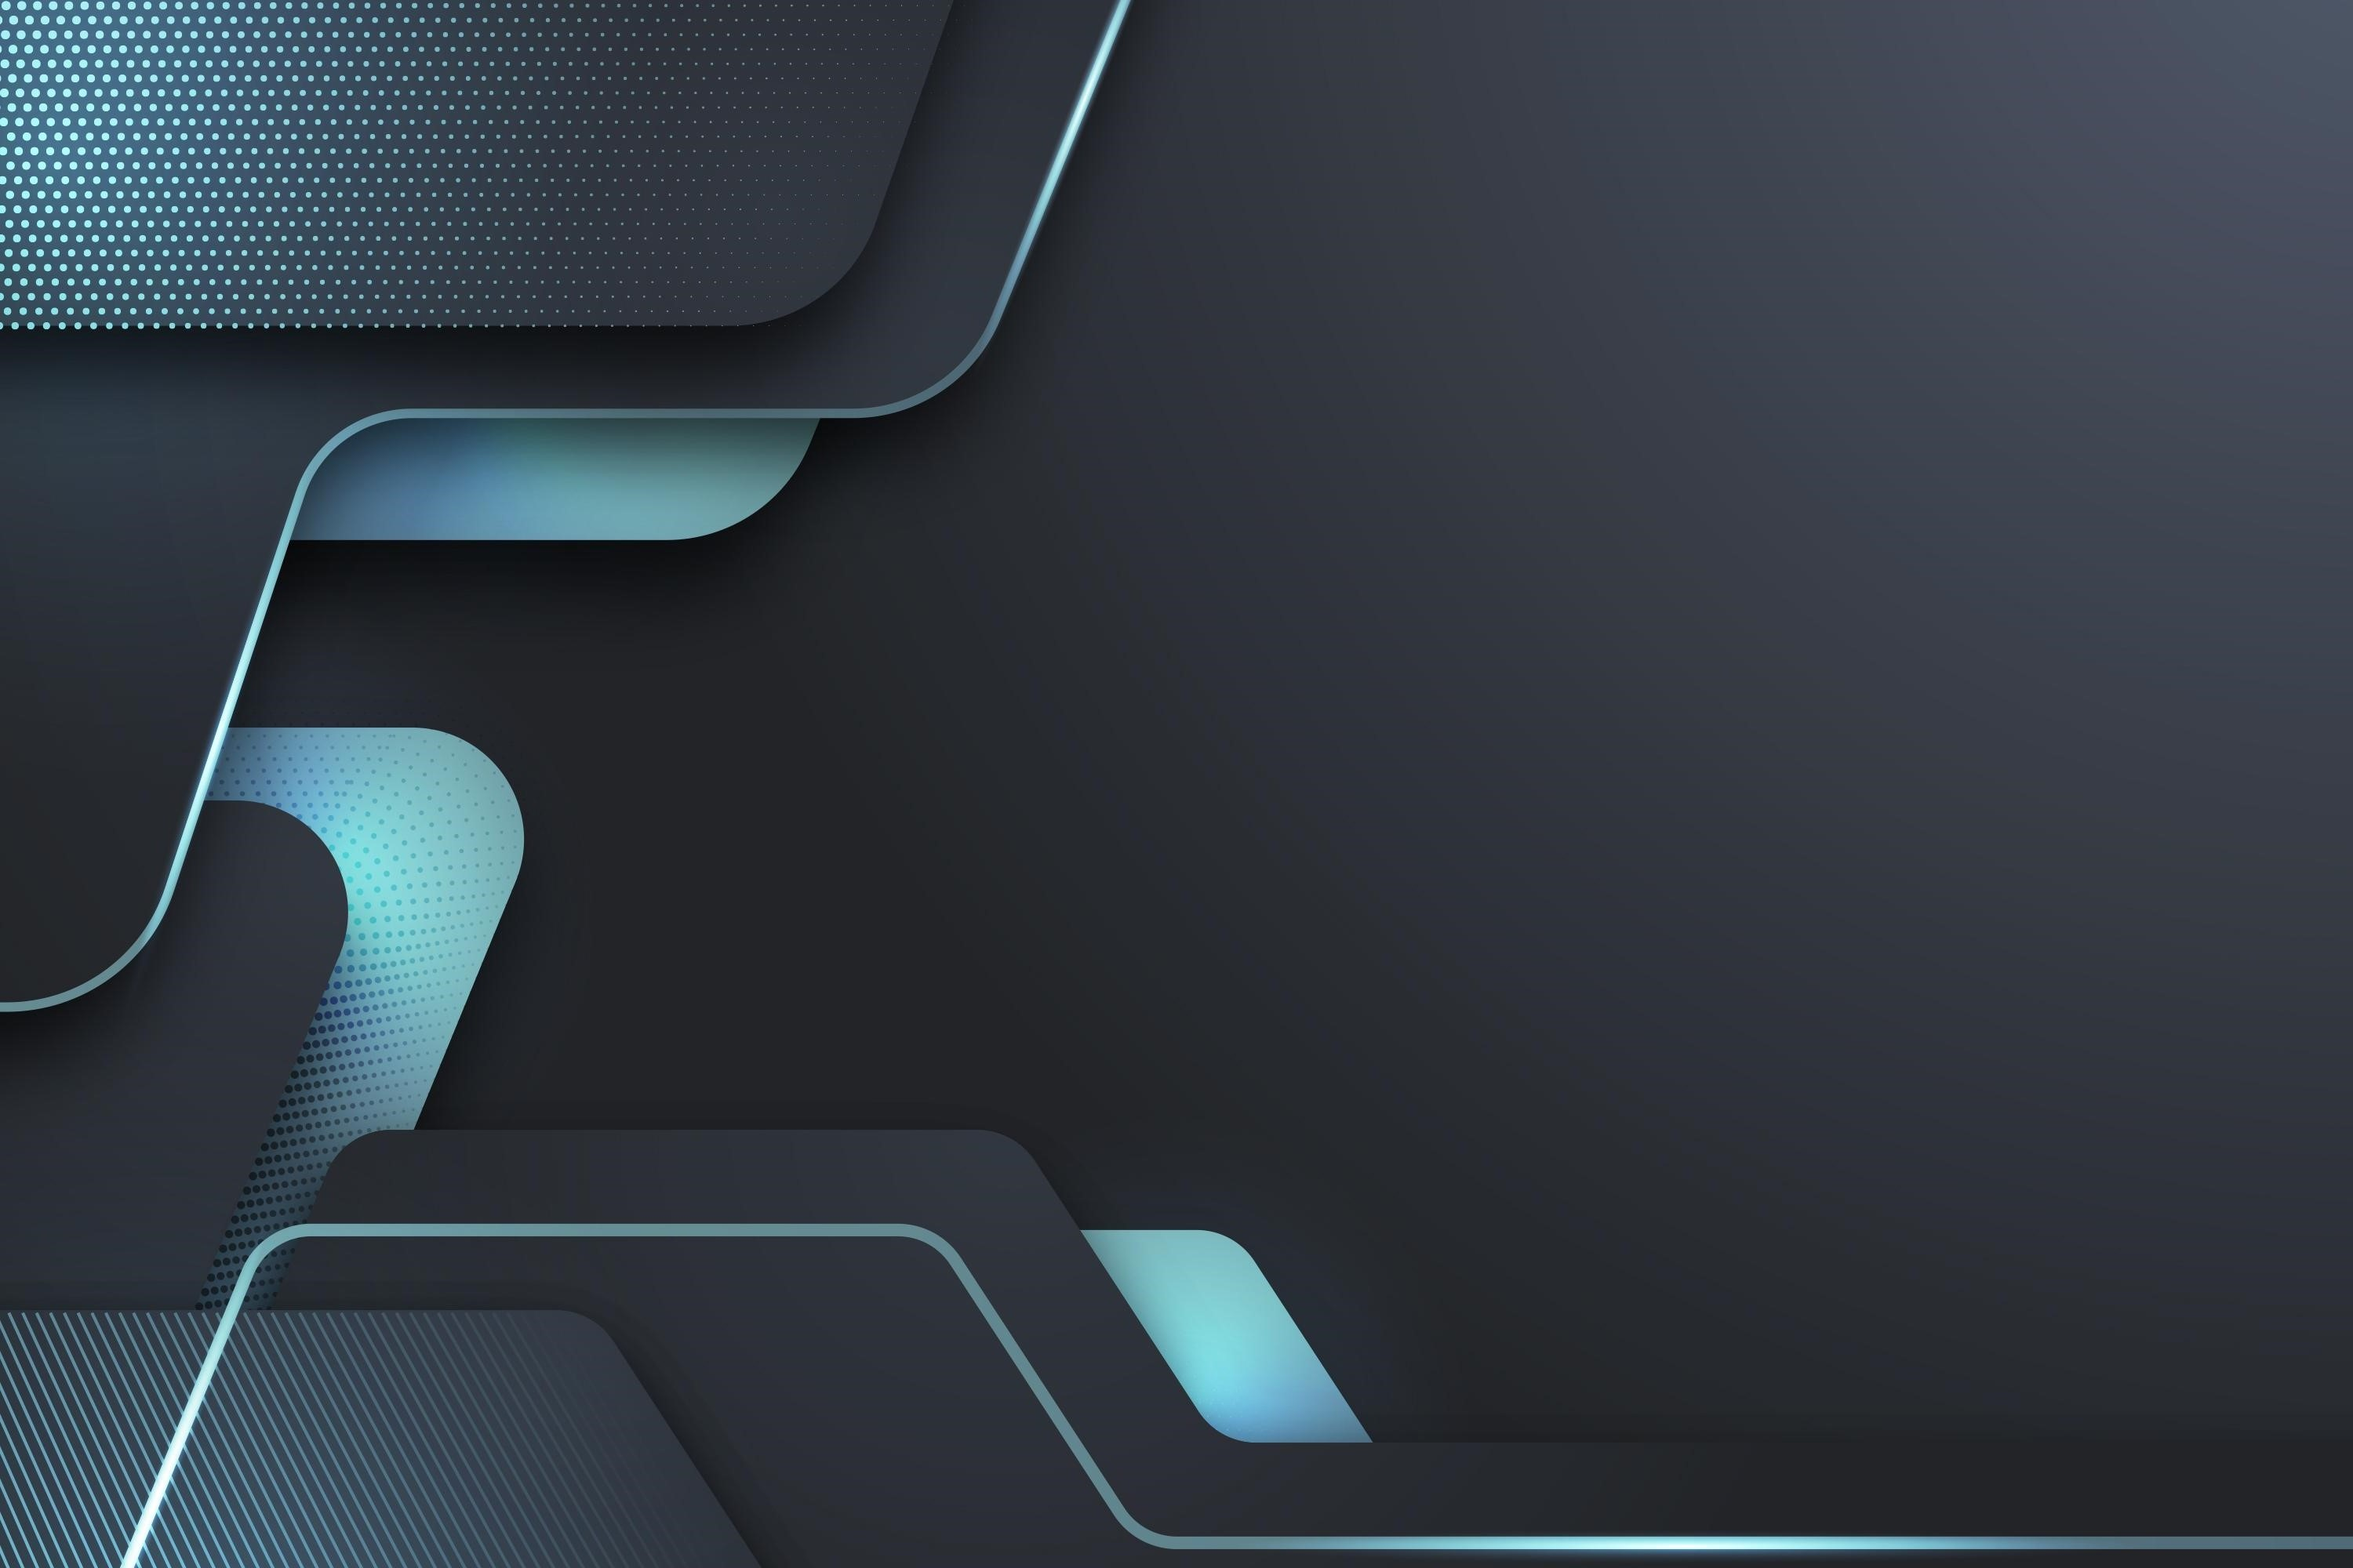
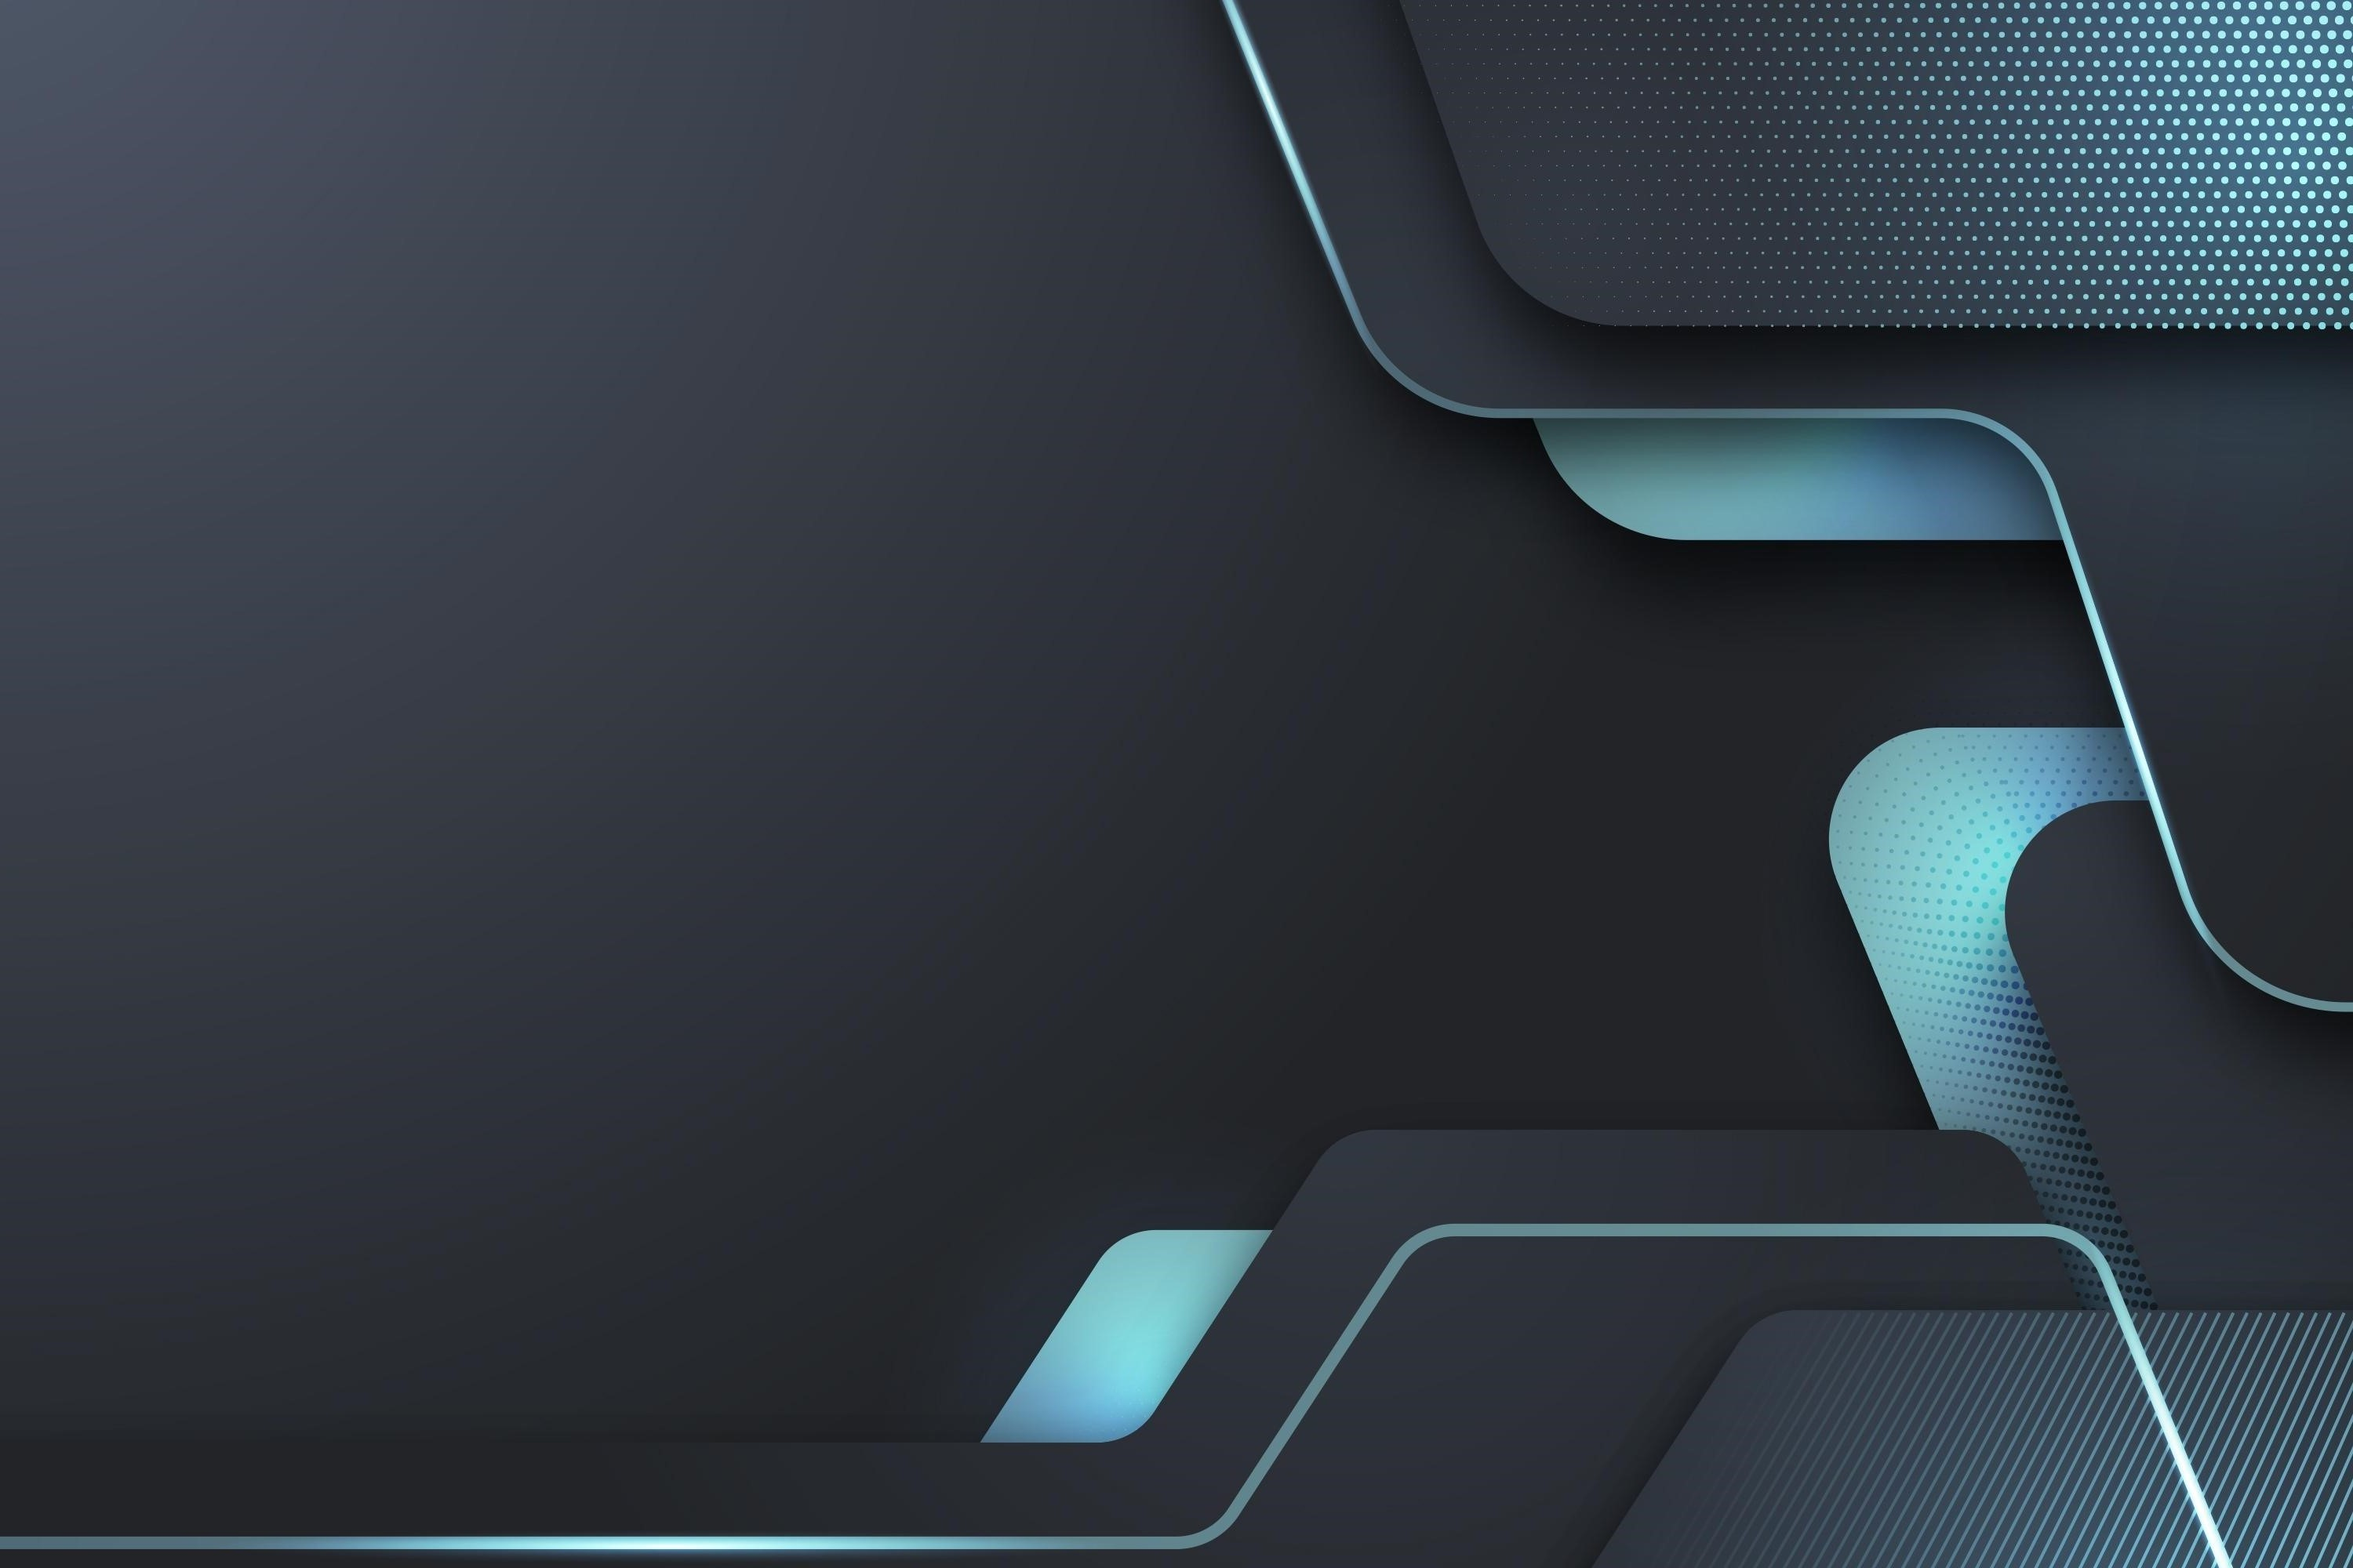
ok

diff --git a/styles.css b/styles.css
@@ -83,7 +83,7 @@ body {
   border-radius: 10px;
   border: 5px solid rgb(255, 255, 255, 0.3);
   background: radial-gradient(rgba(0, 0, 0, 0.3), rgb(0, 0, 0, 0.2));
-  backdrop-filter: blur(10px);
+  backdrop-filter: blur(5px);
   box-shadow: 1px 2px 50px black;
 }
 .my-pic img {
@@ -95,7 +95,7 @@ body {
 #introduction {
   width: 100%;
   height: 100vh;
-  background-image: url(./images/portfolio-bg4.jpg);
+  background-image: url(./images/portfolio-bg3.jpg);
   background-size: cover;
   background-repeat: no-repeat;
   display: flex;

diff --git a/index.html b/index.html
@@ -69,7 +69,7 @@
         <div class="row mx-0 my-desc mt-5">
           <div class="col-md-4 d-flex justify-content-end">
             <div class="my-pic">
-              <img src="images/akash_sardar.png" alt="" />
+              <img src="images/akash_sardar1.png" alt="" />
             </div>
           </div>
           <div class="col-md-7 d-flex justify-content-end">
